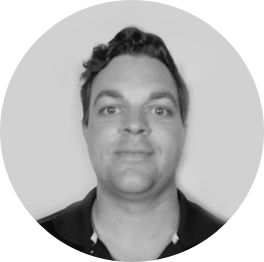
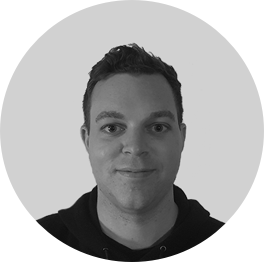
Updating ian and nicks picture, adding faq links into nav

Changed region(s): [[0.1212, 0.0916, 0.8788, 1.0]]

diff --git a/components/nav.js b/components/nav.js
@@ -3,8 +3,17 @@ import PropTypes from 'prop-types'
 import stylesheet from './nav.scss'
 
 const nav = ({ onHandleToggleMobileMenu, clickMenuOption, isMobileMenuActive }) => {
-  const listItems = ['about', 'how it works', 'roadmap', 'team']
-    .map(listItem => (<li key={listItem} onClick={() => clickMenuOption(listItem)} className="Nav__listItem">{listItem}</li>))
+  const listItems = [{label: 'about'}, {label:'how it works'}, {label:'roadmap'}, {label:'team'}, {label: 'faq', link: 'https://github.com/MyBitFoundation/MyBit.io/tree/master/faqs'}]
+    .map(listItem => {
+      const item = listItem.link ?
+        <a href='https://github.com/MyBitFoundation/MyBit.io/tree/master/faqs' target='_blank' rel='noopener noreferrer'>{listItem.label}</a> :
+        listItem.label
+      return (
+        <li key={listItem.label} onClick={() => clickMenuOption(listItem.label)} className="Nav__listItem">
+          {item}
+        </li>
+      )
+    })
   const navList = (<ul className="Nav__list">{listItems}</ul>)
   const mobileIcon = isMobileMenuActive ? 'x' : '☰';
   return (

diff --git a/components/nav.scss b/components/nav.scss
@@ -79,13 +79,18 @@
         @extend %navigation;
         @extend %capitalize;
         font-weight: 900;
-        &:hover {
+        &:hover, a:hover {
             color: $button-color;
             transition: color 180ms ease-in;
         }
         cursor: pointer;
         @include media('<desktop') {
             padding: 2px 5px;
+        }
+        a {
+            text-decoration: none;
+            color: #fff;
+            text-transform: uppercase;
         }
     }
 }
